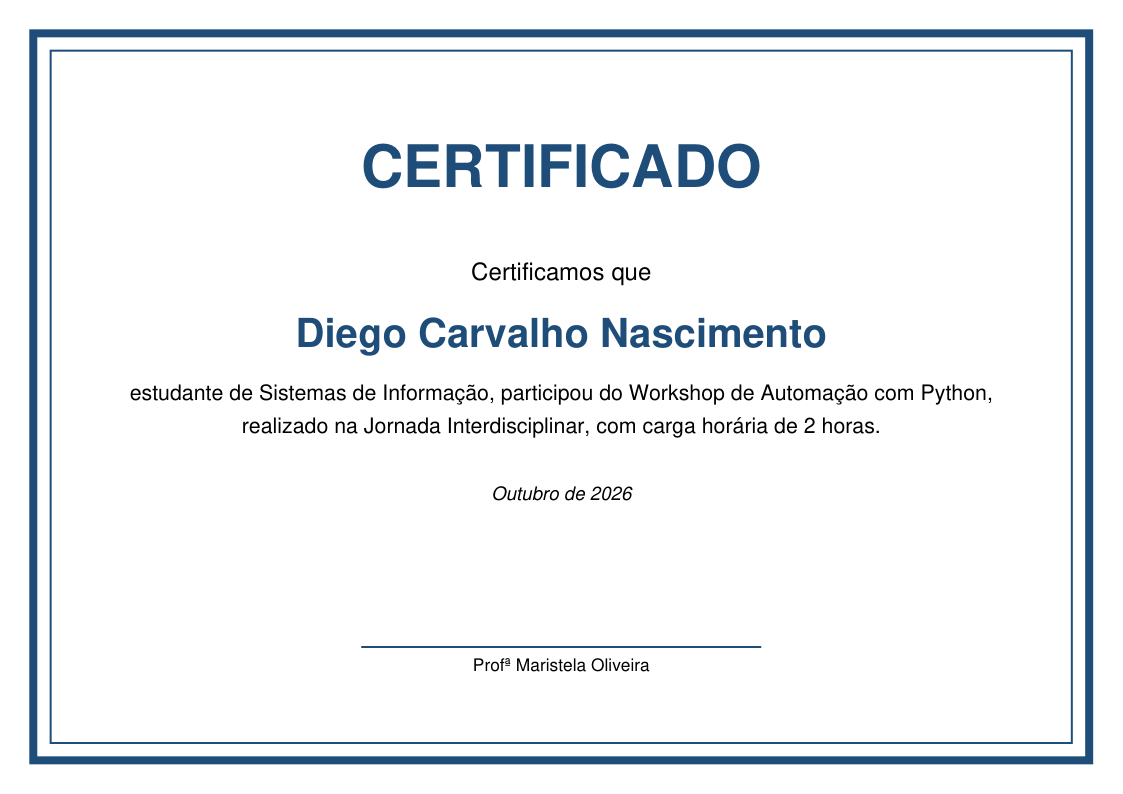
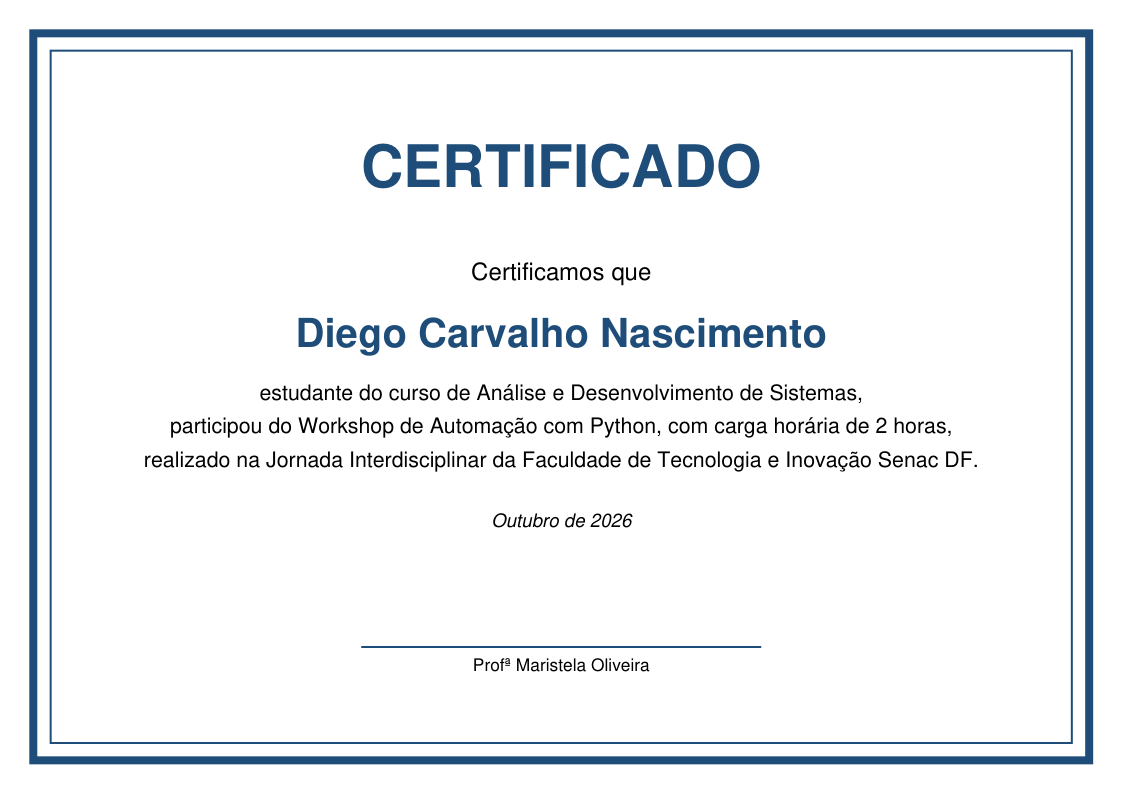
Troca os cursos genéricos pelos cursos da Faculdade Senac DF
Slide de áreas, demo da planilha, palavra rotativa do final, imagens dos
certificados (agora com o nome da faculdade) e gráfico do bônus usam os
cursos: ADS, Segurança da Informação, Ciência de Dados, Gestão da TI,
IA e Machine Learning e Publicidade e Marketing.

Changed region(s): [[0.1247, 0.4836, 0.8727, 0.665]]

diff --git a/index.html b/index.html
@@ -154,17 +154,16 @@
     <section class="slide" data-titulo="Em todas as áreas">
       <div class="wrap">
         <p class="kicker reveal">04 · Interdisciplinar</p>
-        <h2 class="reveal" style="--d:.1s">Serve para a <span class="hl">sua área</span> também</h2>
+        <h2 class="reveal" style="--d:.1s">Serve para o <span class="hl">seu curso</span> também</h2>
         <p class="nota reveal" style="--d:.15s">Passe o mouse (ou clique) nos cartões</p>
         <div class="areas-grid">
-          <div class="area-card reveal" style="--d:.15s" tabindex="0"><div class="area-inner"><div class="area-frente"><span>💼</span><b>Administração</b></div><div class="area-verso">Juntar as planilhas de vendas de 10 filiais num relatório único</div></div></div>
-          <div class="area-card reveal" style="--d:.2s" tabindex="0"><div class="area-inner"><div class="area-frente"><span>🍎</span><b>Pedagogia</b></div><div class="area-verso">Gerar boletins, listas de presença e certificados em lote</div></div></div>
-          <div class="area-card reveal" style="--d:.25s" tabindex="0"><div class="area-inner"><div class="area-frente"><span>🏗</span><b>Engenharias</b></div><div class="area-verso">Processar planilhas de medições e gerar gráficos sozinho</div></div></div>
-          <div class="area-card reveal" style="--d:.3s" tabindex="0"><div class="area-inner"><div class="area-frente"><span>🎨</span><b>Design</b></div><div class="area-verso">Redimensionar e renomear 500 imagens de uma vez</div></div></div>
-          <div class="area-card reveal" style="--d:.35s" tabindex="0"><div class="area-inner"><div class="area-frente"><span>🩺</span><b>Saúde</b></div><div class="area-verso">Organizar e anonimizar dados de pesquisa</div></div></div>
-          <div class="area-card reveal" style="--d:.4s" tabindex="0"><div class="area-inner"><div class="area-frente"><span>⚖</span><b>Direito</b></div><div class="area-verso">Buscar termos em centenas de PDFs de processos</div></div></div>
-          <div class="area-card reveal" style="--d:.45s" tabindex="0"><div class="area-inner"><div class="area-frente"><span>💻</span><b>Computação</b></div><div class="area-verso">Bots, integração entre sistemas, testes automáticos...</div></div></div>
-          <div class="area-card area-voce reveal" style="--d:.5s" tabindex="0"><div class="area-inner"><div class="area-frente"><span>❓</span><b>E você?</b></div><div class="area-verso">Qual tarefa repetitiva <em>você</em> faz toda semana?</div></div></div>
+          <div class="area-card reveal" style="--d:0.15s" tabindex="0"><div class="area-inner"><div class="area-frente"><span>💻</span><b>Análise e Desenvolvimento de Sistemas</b></div><div class="area-verso">Rodar testes, gerar relatórios de bugs e fazer deploy sozinho</div></div></div>
+          <div class="area-card reveal" style="--d:0.20s" tabindex="0"><div class="area-inner"><div class="area-frente"><span>🛡</span><b>Segurança da Informação</b></div><div class="area-verso">Varrer milhares de linhas de log atrás de acessos suspeitos</div></div></div>
+          <div class="area-card reveal" style="--d:0.25s" tabindex="0"><div class="area-inner"><div class="area-frente"><span>📈</span><b>Ciência de Dados</b></div><div class="area-verso">Coletar, limpar e juntar dados de várias fontes todo dia</div></div></div>
+          <div class="area-card reveal" style="--d:0.30s" tabindex="0"><div class="area-inner"><div class="area-frente"><span>🖥</span><b>Gestão da Tecnologia da Informação</b></div><div class="area-verso">Inventário automático das máquinas e relatório dos chamados</div></div></div>
+          <div class="area-card reveal" style="--d:0.35s" tabindex="0"><div class="area-inner"><div class="area-frente"><span>🤖</span><b>Inteligência Artificial e Machine Learning</b></div><div class="area-verso">Organizar e rotular milhares de imagens para treinar modelos</div></div></div>
+          <div class="area-card reveal" style="--d:0.40s" tabindex="0"><div class="area-inner"><div class="area-frente"><span>📣</span><b>Publicidade e Marketing</b></div><div class="area-verso">Agendar posts e medir o resultado das campanhas sem planilha manual</div></div></div>
+          <div class="area-card area-voce reveal" style="--d:.45s" tabindex="0"><div class="area-inner"><div class="area-frente"><span>❓</span><b>E você?</b></div><div class="area-verso">Qual tarefa repetitiva <em>você</em> faz toda semana?</div></div></div>
         </div>
       </div>
     </section>

diff --git a/js/main.js b/js/main.js
@@ -560,17 +560,26 @@ addEventListener("resize", () => {
    10. DEMO: CERTIFICADOS
    ========================================================== */
 const INSCRITOS = [
-  ["Ana Costa Rodrigues", "Engenharia Civil", "Sim"],
-  ["Bruno Oliveira Rocha", "Sistemas de Informação", "Sim"],
-  ["Camila Santos Barbosa", "Ciência da Computação", "Sim"],
-  ["Diego Carvalho Nascimento", "Sistemas de Informação", "Sim"],
-  ["Eduarda Rocha Carvalho", "Sistemas de Informação", "Não"],
-  ["Felipe Souza Pereira", "Design", "Sim"],
-  ["Gabriela Santos Dias", "Pedagogia", "Sim"],
-  ["Henrique Pereira Santos", "Pedagogia", "Não"],
-  ["Isabela Gomes Carvalho", "Ciência da Computação", "Sim"],
-  ["João Dias Gomes", "Pedagogia", "Não"],
+  ["Ana Costa Rodrigues", "Segurança da Informação", "Sim"],
+  ["Bruno Oliveira Rocha", "Gestão da Tecnologia da Informação", "Sim"],
+  ["Camila Santos Barbosa", "Segurança da Informação", "Sim"],
+  ["Diego Carvalho Nascimento", "Análise e Desenvolvimento de Sistemas", "Sim"],
+  ["Eduarda Rocha Carvalho", "Inteligência Artificial e Machine Learning", "Não"],
+  ["Felipe Souza Pereira", "Publicidade e Marketing", "Sim"],
+  ["Gabriela Santos Dias", "Inteligência Artificial e Machine Learning", "Sim"],
+  ["Henrique Pereira Santos", "Segurança da Informação", "Não"],
+  ["Isabela Gomes Carvalho", "Gestão da Tecnologia da Informação", "Sim"],
+  ["João Dias Gomes", "Análise e Desenvolvimento de Sistemas", "Não"],
 ];
+// siglas para caber na tabela da demo (o nome completo aparece ao passar o mouse)
+const SIGLAS = {
+  "Análise e Desenvolvimento de Sistemas": "ADS",
+  "Segurança da Informação": "Segurança da Info.",
+  "Ciência de Dados": "Ciência de Dados",
+  "Gestão da Tecnologia da Informação": "Gestão de TI",
+  "Inteligência Artificial e Machine Learning": "IA e Machine Learning",
+  "Publicidade e Marketing": "Publicidade e Mkt",
+};
 const TOTAL_CERTIFICADOS = 27;
 
 const corpoPlanilha = $("#planilha-corpo");
@@ -582,7 +591,7 @@ const btnCert = $("#btn-certificados");
 function montarPlanilha() {
   corpoPlanilha.innerHTML = INSCRITOS.map(
     ([nome, curso, presente], i) =>
-      `<tr><td>${i + 2}</td><td>${nome}</td><td>${curso}</td><td class="${presente === "Sim" ? "sim" : "nao"}">${presente}</td></tr>`
+      `<tr><td>${i + 2}</td><td>${nome}</td><td title="${curso}">${SIGLAS[curso] || curso}</td><td class="${presente === "Sim" ? "sim" : "nao"}">${presente}</td></tr>`
   ).join("") + `<tr><td>⋮</td><td colspan="3" style="color:#8a93a6">+ 20 linhas</td></tr>`;
 }
 montarPlanilha();
@@ -647,7 +656,7 @@ $$(".zoomavel").forEach((img) => img.addEventListener("click", () => abrirLightb
 /* ==========================================================
    12. FINAL: palavra que troca + QR code + confete
    ========================================================== */
-const PALAVRAS = ["sua área", "Administração", "Pedagogia", "Engenharia", "Design", "Saúde", "Direito", "Computação", "sua vida"];
+const PALAVRAS = ["sua área", "Segurança da Informação", "Ciência de Dados", "Gestão de TI", "Inteligência Artificial", "Publicidade", "Análise de Sistemas", "sua vida"];
 const rotativo = $("#rotativo");
 let idxPalavra = 0;
 setInterval(() => {

diff --git a/css/style.css b/css/style.css
@@ -338,7 +338,8 @@ mark {
 .pilar small { color: var(--suave); }
 
 /* ============ 5. Áreas ============ */
-.areas-grid { display: grid; grid-template-columns: repeat(4, 1fr); gap: clamp(12px, 1.6vw, 20px); margin-top: 18px; }
+.areas-grid { display: flex; flex-wrap: wrap; justify-content: center; gap: clamp(12px, 1.6vw, 20px); margin-top: 18px; }
+.areas-grid .area-card { flex: 0 0 calc((100% - 3 * clamp(12px, 1.6vw, 20px)) / 4); }
 .area-card { perspective: 900px; height: clamp(120px, 21vh, 180px); outline: none; cursor: pointer; }
 .area-inner {
   position: relative; width: 100%; height: 100%;
@@ -352,7 +353,7 @@ mark {
 }
 .area-frente { background: var(--painel); gap: 6px; }
 .area-frente span { font-size: clamp(34px, 3.6vw, 48px); }
-.area-frente b { font-size: clamp(15px, 1.4vw, 19px); }
+.area-frente b { font-size: clamp(14px, 1.25vw, 17px); line-height: 1.25; }
 .area-verso {
   transform: rotateY(180deg);
   background: linear-gradient(135deg, var(--azul-forte), #24507a);
@@ -588,7 +589,8 @@ mark {
 @media (max-width: 900px) {
   .capa-grid, .duas-colunas, .demo-grid, .massa-grid, .final-grid, .erros { grid-template-columns: 1fr; }
   .maos-grid, .cuidados-grid { grid-template-columns: 1fr 1fr; }
-  .areas-grid, .pilares { grid-template-columns: 1fr 1fr; }
+  .pilares { grid-template-columns: 1fr 1fr; }
+  .areas-grid .area-card { flex-basis: calc((100% - clamp(12px, 1.6vw, 20px)) / 2); }
   .codigo-traducao { grid-template-columns: 1fr; }
   .seta-traducao { transform: rotate(90deg); justify-self: center; animation: none; }
   .cert-grid { grid-template-columns: 1fr; }
